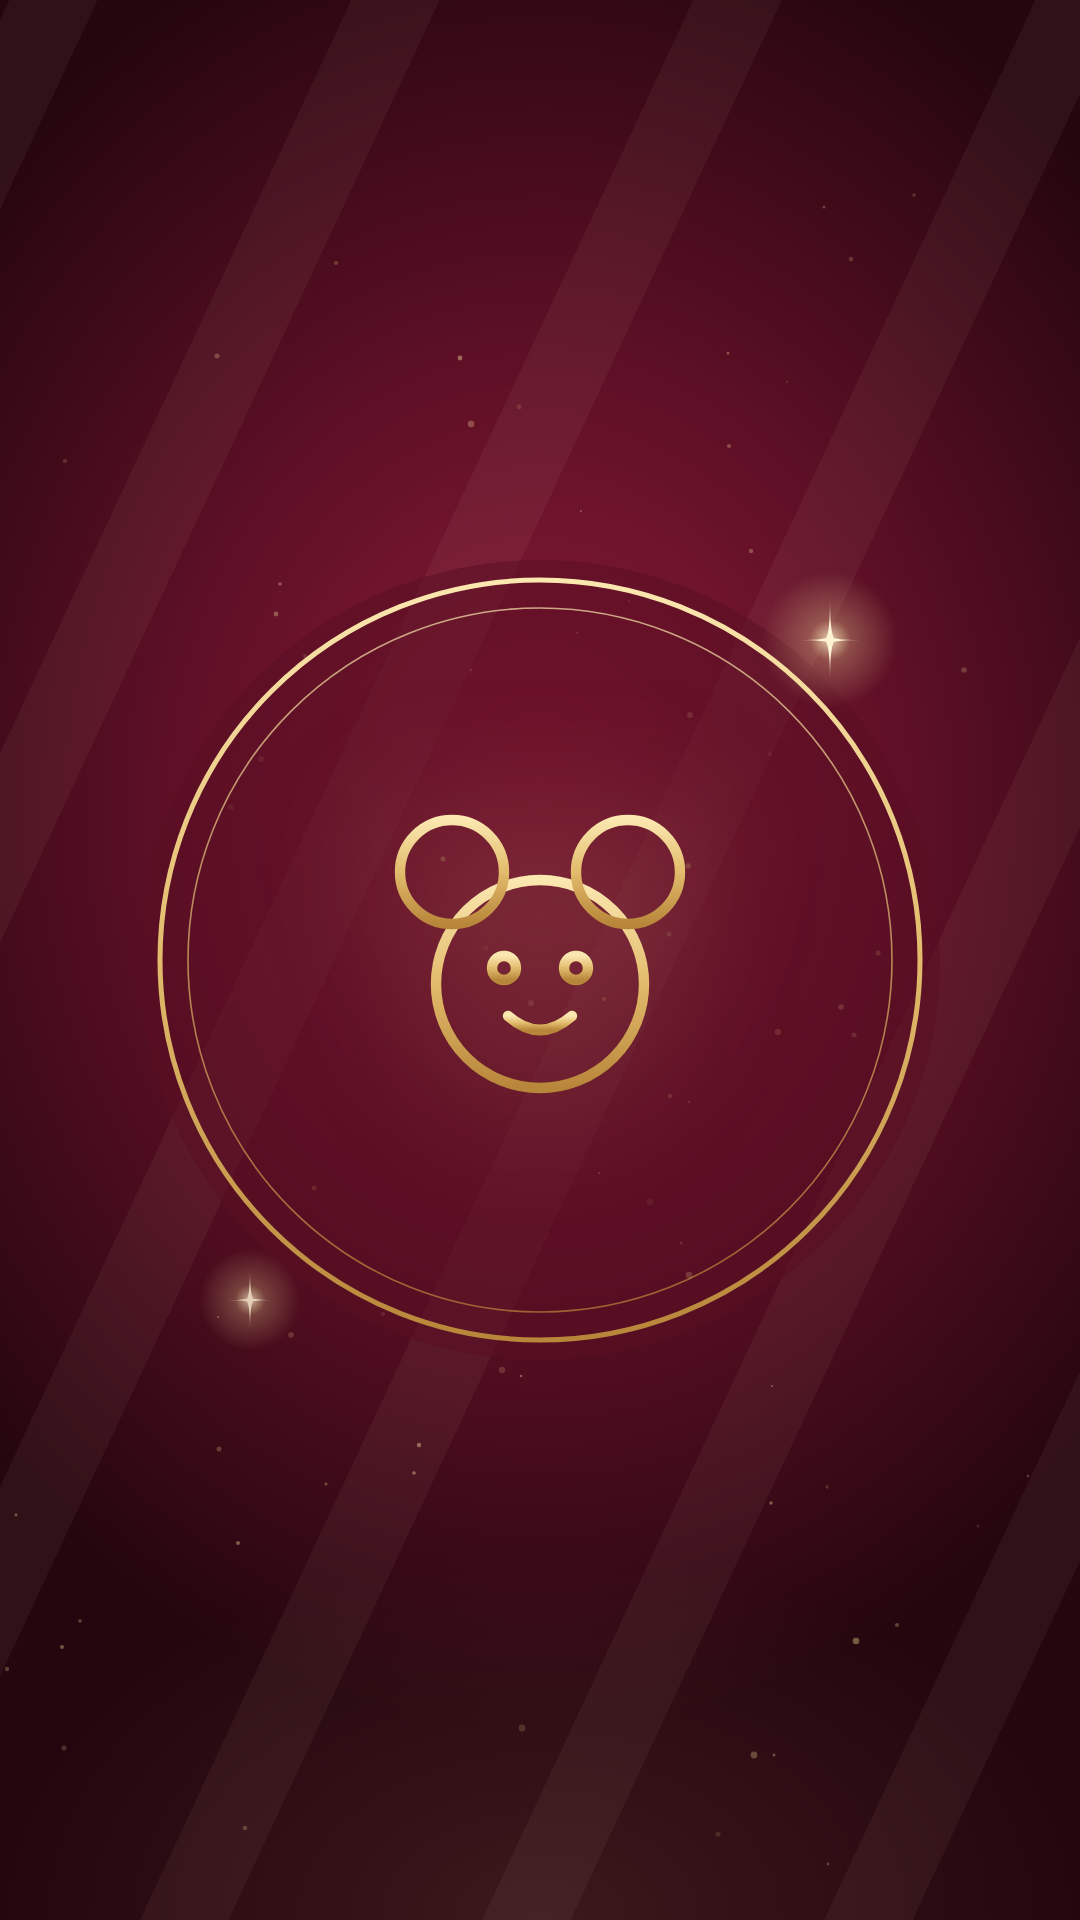
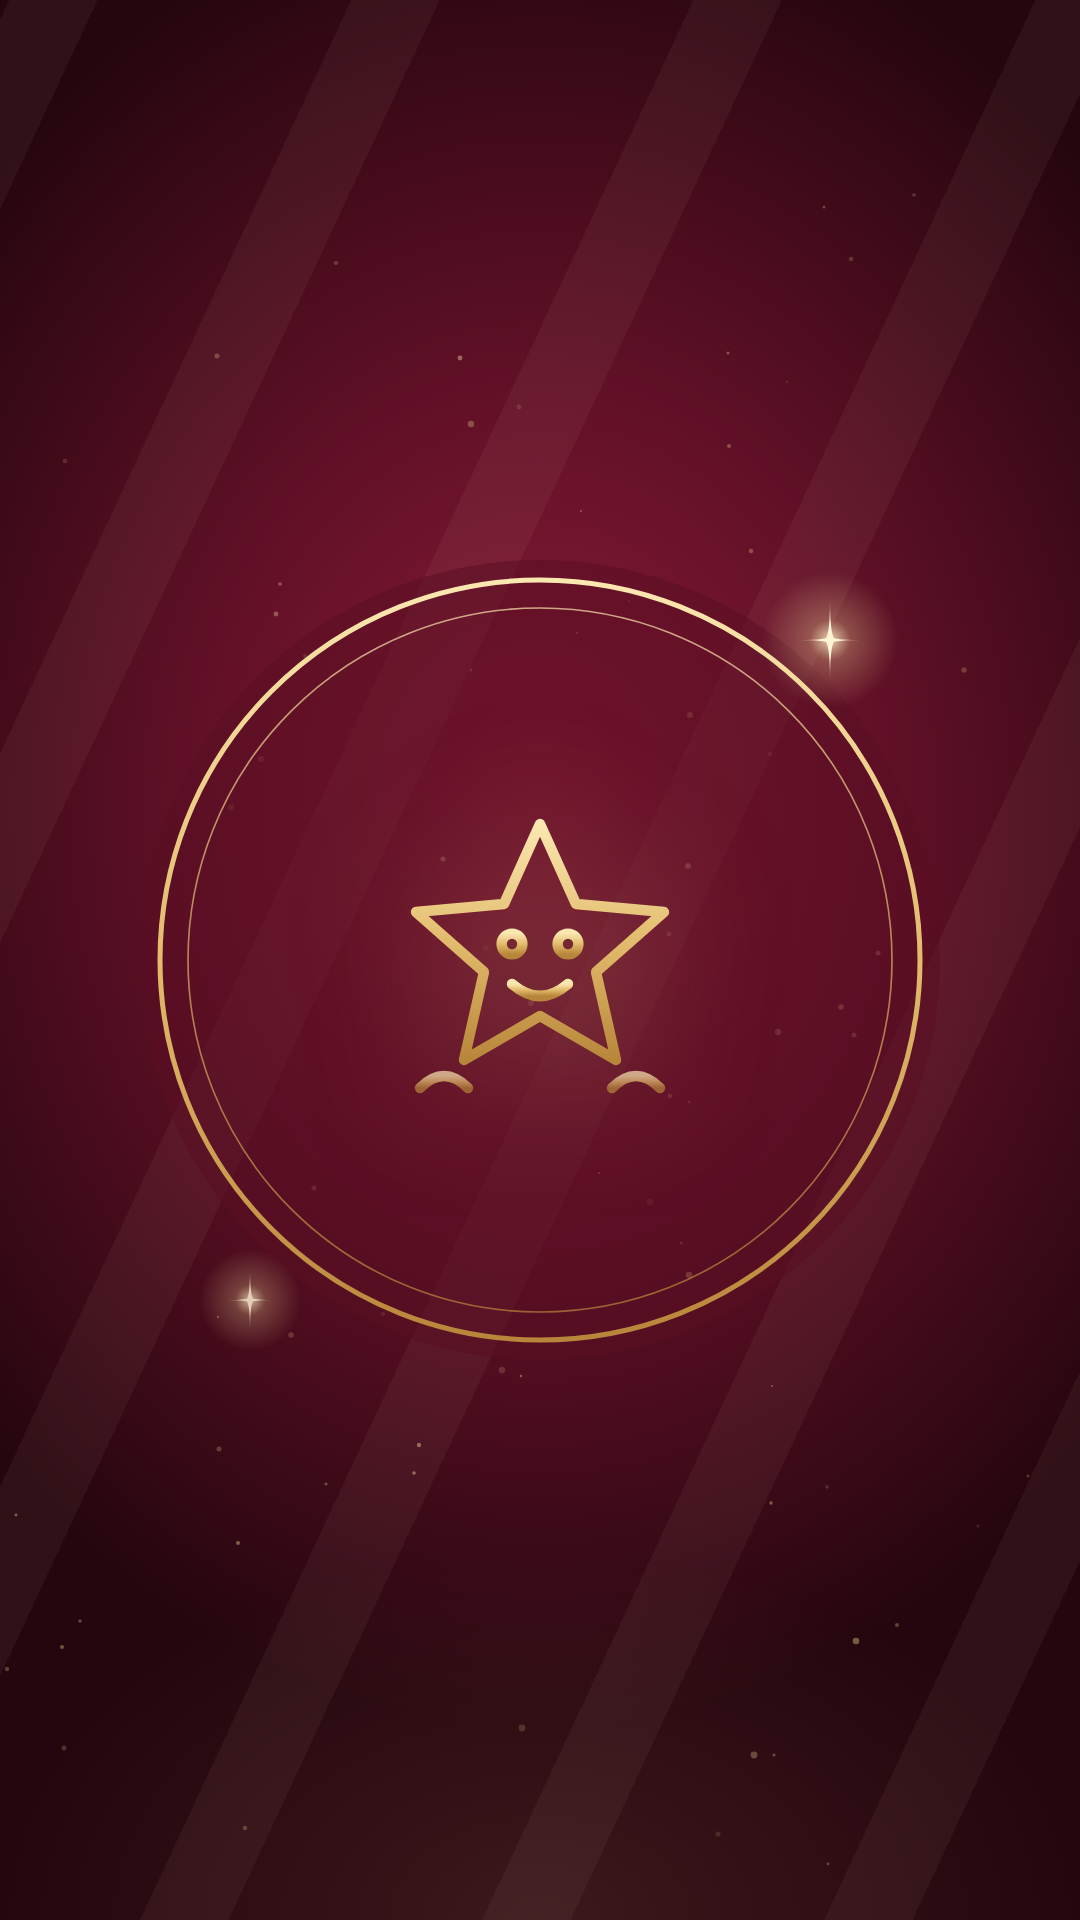
Cartoon cover: smiling star
Claude-Session: https://claude.ai/code/session_01NVYZfQU8cBxnfbyUcCNFxq

Changed region(s): [[0.3667, 0.4062, 0.6417, 0.5938], [0.55, 0.4062, 0.6111, 0.4375]]

diff --git a/coffrets/generate_stories.js b/coffrets/generate_stories.js
@@ -15,7 +15,7 @@ const ICONS={
  'tasses-heros':`<path d="M56 12L26 56h22l-6 32 32-46H52z"/>`,
  'tasses-humour':`<circle cx="50" cy="50" r="34"/><path d="M36 58c6 10 22 10 28 0"/><path d="M36 40q4-5 8 0M56 40q4-5 8 0"/>`,
  'cine-series':`<rect x="16" y="40" width="68" height="44" rx="3"/><path d="M16 40l64-16 3 12-64 16z"/><path d="M30 36l8 12M46 32l8 12M62 28l8 12"/><path d="M28 62h44M28 72h28"/>`,
- 'dessins-animes':`<circle cx="50" cy="56" r="26"/><circle cx="28" cy="28" r="13"/><circle cx="72" cy="28" r="13"/><circle cx="41" cy="52" r="3"/><circle cx="59" cy="52" r="3"/><path d="M42 64q8 7 16 0"/>`,
+ 'dessins-animes':`<path d="M50 16l9 20 22 2-17 15 5 22-19-11-19 11 5-22-17-15 22-2z"/><circle cx="43" cy="46" r="2.6"/><circle cx="57" cy="46" r="2.6"/><path d="M43 56q7 6 14 0"/><path d="M20 82q6-6 12 0M68 82q6-6 12 0" opacity=".7"/>`,
  'tasses-fetes':`<path d="M50 14v72M14 50h72M24 24l52 52M76 24L24 76" opacity=".35"/><path d="M50 22l7 21 21 7-21 7-7 21-7-21-21-7 21-7z"/>`
 };
 const STAR=(x,y,r,o=1)=>`<g transform="translate(${x} ${y})" opacity="${o}"><circle r="${r*1.7}" fill="url(#glow)"/><path d="M0 ${-r} Q0 0 ${r*.16} 0 Q0 0 0 ${r} Q0 0 ${-r*.16} 0 Q0 0 0 ${-r}Z M${-r*.75} 0 Q0 0 0 ${-r*.12} Q0 0 ${r*.75} 0 Q0 0 0 ${r*.12} Q0 0 ${-r*.75} 0Z" fill="#fff3d6"/></g>`;
